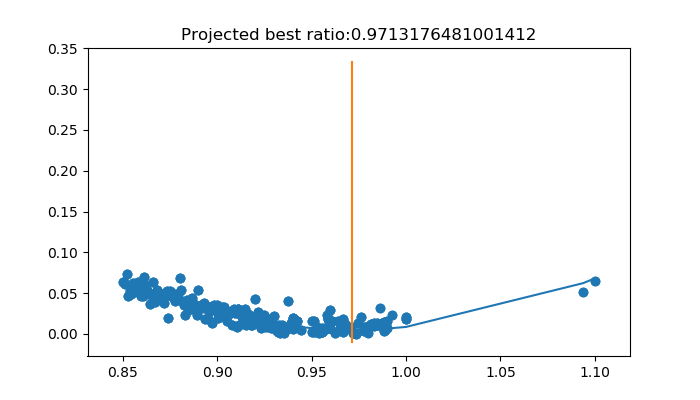
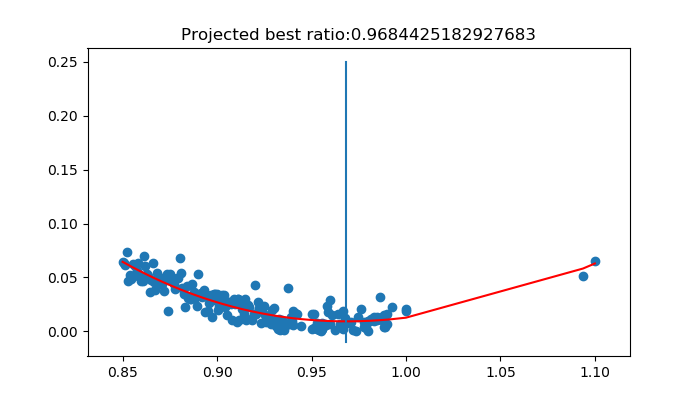
Cleaned up, added sim_linspace

diff --git a/sim_minimize.py b/sim_minimize.py
@@ -1,32 +1,26 @@
 #!/usr/bin/env python3
-# -*- coding: utf-8 -*-
-"""
-Created on Sat Oct 13 15:42:03 2018
-
-@author: t
-"""
-
 from simulator import *
 import logging
 from tqdm import tqdm
 import os
 from scipy.optimize import minimize
 
-logging.basicConfig(filename='./sim.log', filemode='w', level=logging.INFO, format="%(filename)s:%(funcName)s:%(lineno)s:%(msg)s")
+logging.basicConfig(filename='./sim_minimize.log', filemode='w', level=logging.INFO, format="%(filename)s:%(funcName)s:%(lineno)s:%(msg)s")
 
 #########################
 start_num_flips = 1_000_000
-flips_step_rate = 200_000  # increase in flip count between ratio changes
-max_flips_limit = 1e7  # max number of flips for any ratio
+flips_step_rate = 20_000  # increase in flip count between ratio changes
+max_flips_limit = 10_000_000  # max number of flips for a ratio ever
 
-start_timestep = 1/1500.
+start_timestep = 1/2000.
 timestep_rate = 1/20000  # decrease in timestep between ratio changes
 min_timestep_limit = 1e-8  # minimum timestep ever
 
 goal_rate = 1/3  # rate of result == edge
-tolerance = 1/max_flips_limit  # tolerance to stop optimization
+tolerance = 1/5_000_000  # tolerance to stop optimization
 
-bounds = [0.5, 1.0]  # ratio bounds // Exception raised if minimize takes us outside
+start_guess = 0.968
+bounds = [0.2, 2.0]  # ratio bounds // Exception raised if minimize takes us outside
 
 # ratio bounds from youtube video
 #1. d = 2*sqrt(2) * height
@@ -36,14 +30,13 @@ bounds = [0.5, 1.0]  # ratio bounds // Exception raised if minimize takes us out
 #   height = d/sqrt(3) = 2r/sqrt(3)
 #   height/r = 2/sqrt(3)
 #########################
-start_guess = 0.957
 
 
 # read previous results
 def read_results(file='./results.dat'):
-    ratios, percents, iters = [], [], []
     if not os.path.exists(file):
         return None
+    data = []
     with open(file, 'r') as f:
         line = f.readline()
         num = 1
@@ -51,16 +44,16 @@ def read_results(file='./results.dat'):
             res = eval(line)
             assert isinstance(res, tuple), f'line {num} is not a tuple {res}'
             assert all([isinstance(item, (float, int)) for item in res]), f'line {num} contains non-number {res}'
-            ratios.append(res[0])
-            percents.append(res[1])
-            iters.append(res[2])
+            data.append(res)
             line = f.readline()
             num += 1
-    return list(zip(ratios, percents, iters))
+    return data
+
 res = read_results()
 if res:
     res = sorted(read_results(), key=lambda r: r[1] / ((r[2] / 3000) ** 2))
     best_ratio, best_percent, nflips = res[0]
+    nflips = round(nflips/1000)*1000
 else:
     best_ratio = start_guess
     nflips = start_num_flips
@@ -74,7 +67,7 @@ def loss(edge, goal=goal_rate):
 
 
 def main(ratio, sim):
-    logger.info(f"Running ratio {ratio[0]}, for {sim.flips} flips")
+    logger.info(f"Running ratio {ratio[0]}, for {sim.flips} flips, timestep {sim.timestep}")
     results = {'heads':0, 'tails':0, 'edge':0, 'error':0}
     assert bounds[0] <= ratio <= bounds[1]
     sim.ratio = ratio[0]
@@ -105,8 +98,11 @@ def main(ratio, sim):
     return edges
 
 logger.info(f"Minimizing between {bounds} starting with ratio {best_ratio}")
-optimize_result = minimize(main, x0=best_ratio, bounds=[bounds], args=(sim,), tol=tolerance)
-
-logger.info(optimize_result)
+try:
+    optimize_result = minimize(main, x0=best_ratio, bounds=[bounds], args=(sim,), tol=tolerance)
+except KeyboardInterrupt:
+    pass
+else:
+    logger.info(optimize_result)
 
 import show_results

diff --git a/show_results.py b/show_results.py
@@ -1,19 +1,14 @@
-
 #!/usr/bin/env python3
-# -*- coding: utf-8 -*-
-"""
-Created on Fri Oct 12 15:39:47 2018
-
-@author: t
-"""
-
 import matplotlib.pyplot as plt
 import numpy as np
+import os
 from scipy.optimize import minimize
 
+
 def read_results(file='./results.dat'):
-    ratios, percents, iters = [], [], []
-    
+    if not os.path.exists(file):
+        return None
+    data = []
     with open(file, 'r') as f:
         line = f.readline()
         num = 1
@@ -21,36 +16,34 @@ def read_results(file='./results.dat'):
             res = eval(line)
             assert isinstance(res, tuple), f'line {num} is not a tuple {res}'
             assert all([isinstance(item, (float, int)) for item in res]), f'line {num} contains non-number {res}'
-            ratios.append(res[0])
-            percents.append(res[1])
-            iters.append(res[2])
-            
+            data.append(res)
             line = f.readline()
             num += 1
-    
-    return ratios, percents, iters
+    return data
 
-ratios, percents, iters = read_results()
-results = sorted(zip(ratios, percents, iters), key=lambda x: x[0])
-losses = sorted(results, key=lambda x: x[1])
+data = read_results()
+results = sorted(data, key=lambda x: x[0])
+ratios = [r[0] for r in results]
+percents = [r[1] for r in results]
 
-ratios, percents = [], []
-for i in results:
-    for _ in range(int(np.round(i[2]/1000))):  # every 1000 flips gets another data point
-        ratios.append(i[0])
-        percents.append(i[1])
+# # Weight ratio data by 'accuracy' (how many flips were taken)
+# ratios, percents = [], []
+# for i in results:
+#     for _ in range(int(np.round(i[2]/1000))):  # every 1000 flips gets another data point
+#         ratios.append(i[0])
+#         percents.append(i[1])
 
 fig = plt.figure(figsize=(7,4))
 plt.scatter(ratios, percents)
 
 coeffs = np.polyfit(ratios, percents, deg=3)
 line = np.poly1d(coeffs)
-plt.plot(ratios, line(ratios))
+plt.plot(ratios, line(ratios), color='r')
 
-best = minimize(line, x0=losses[0][0])
+best = minimize(line, x0=min(percents))
 print(f'Projected best: at ratio: {best.x[0]} with loss: {best.fun}')
 
-plt.plot([best.x, best.x], [-0.01, 1/3])
+plt.plot([best.x, best.x], [-0.01, 1/4])
 plt.title(f"Projected best ratio:{best.x[0]}")
 fig.savefig('results.png')
 plt.show()

diff --git a/sim_linspace.py b/sim_linspace.py
@@ -1,0 +1,73 @@
+#!/usr/bin/env python3
+from simulator import *
+import logging
+from tqdm import tqdm
+import os
+import numpy as np
+
+logging.basicConfig(filename='./sim_linspace.log', filemode='w', level=logging.INFO, format="%(filename)s:%(funcName)s:%(lineno)s:%(msg)s")
+
+#########################
+num_flips = 1_000
+timestep = 1/2500.
+
+goal_rate = 1/3  # rate of result == edge
+tolerance = 1/num_flips  # tolerance to stop searching
+
+num_points = 100
+bounds = [0.98, 1.1]  # ratio bounds to evaluate within
+#########################
+
+sim = Sim(timestep=timestep)
+sim.flips = num_flips
+
+
+def loss(edge, goal=goal_rate):
+    return np.fabs(edge - goal)
+
+
+def main(ratio, sim):
+    logger.info(f"Running ratio {ratio}, for {sim.flips} flips, timestep {sim.timestep}")
+    results = {'heads':0, 'tails':0, 'edge':0, 'error':0}
+    assert bounds[0] <= ratio <= bounds[1]
+    sim.ratio = ratio
+
+    stopped = False
+    count = 0
+    try:
+        for i in tqdm(range(sim.flips)):
+            result = sim.flip()
+            results[result] += 1
+            count = i
+    except KeyboardInterrupt:
+        stopped = True
+    
+    edges = results['edge']/(count - results['error'])
+    edges = loss(edges)
+    
+    with open('results.dat', 'a') as f:
+        f.write(str((sim.ratio, edges, count-results['error'])) + '\n')
+
+    logger.info(f"ratio:{ratio}, loss:{edges:.10f} results:{results}")
+
+    if stopped:
+        raise KeyboardInterrupt
+    return edges
+
+_points = list(np.linspace(*bounds, num_points))
+# alternate values, outside in, within bounds
+points = []
+while _points:
+    points.append(_points.pop(0))
+    try:
+        points.append(_points.pop(-1))
+    except IndexError:
+        pass
+
+st = f"Evaluating {num_points} ratios between {bounds}, flips {num_flips}, timestep {timestep}"
+logger.info(st)
+print(st)
+for p in points:
+    print(f'Ratio {p}: {main(p, sim)}')
+
+import show_results

diff --git a/README.md b/README.md
@@ -20,6 +20,8 @@ Install may take a long time, as several dependencies are heavy.
     
     sim_minimize.py - run sim, use scipy.optimize.minimize to find solution; 
                       each iteration increases number of flips, decreases timestep
+                      
+    sim_linspace.py - run sim on a distribution of ratios
 
 ## files
     sim.log - log file of sims run
